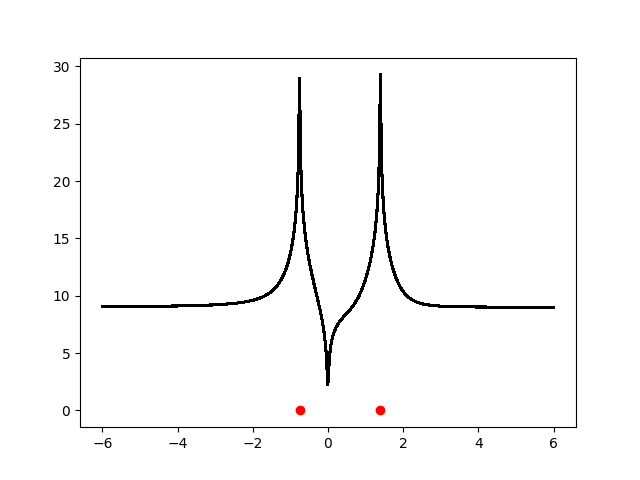
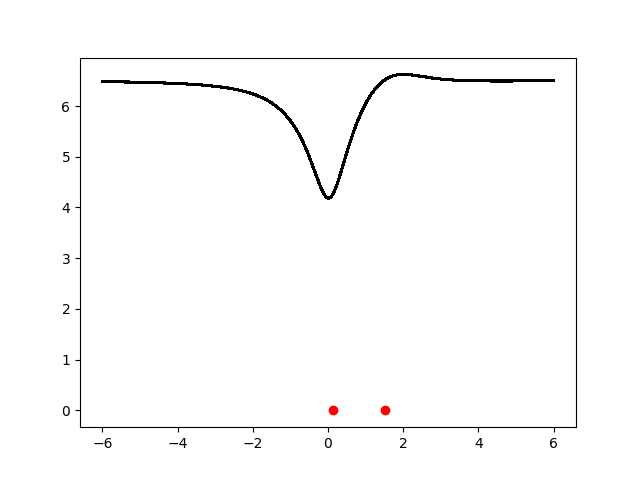
Minimization update

diff --git a/lensing_minimizer.py b/lensing_minimizer.py
@@ -121,17 +121,17 @@ def chi2plot(x,y,e1data,e2data,f1data,f2data,xmax=2,nx=100):
     myval = np.exp(-chi2_all.T)
     plt.imshow(myval,interpolation='none',origin='lower',extent=[-xmax,xmax,-xmax,xmax])
     plt.plot(x,y,'x','o',color='red')
-    plt.savefig('chi2_all.png')
+    plt.savefig('Images/chi2_all.png')
     plt.close()
 
     plt.imshow(np.log(chi2_flex.T),interpolation='none',origin='lower',extent=[-xmax,xmax,-xmax,xmax])
     plt.plot(x,y,'x','o',color='red')
-    plt.savefig('chi2_flex.png')
+    plt.savefig('Images/chi2_flex.png')
     plt.close()
 
     plt.imshow(np.log(chi2_shear.T),interpolation='none',origin='lower',extent=[-xmax,xmax,-xmax,xmax])
     plt.plot(x,y,'x','o',color='red')
-    plt.savefig('chi2_shear.png')
+    plt.savefig('Images/chi2_shear.png')
     plt.close()
 
 
@@ -177,10 +177,11 @@ xlarr, ylarr, tearr = createLenses(nlens=nlens,randompos=False,xmax=xmax)
 ns = 2
 sigf = 0.01
 sigs = 0.1
-x,y,e1data,e2data,f1data,f2data = createSources(xlarr,ylarr,tearr,ns,randompos=False,sigf=sigf,sigs=sigs,xmax=xmax)
+x,y,e1data,e2data,f1data,f2data = createSources(xlarr,ylarr,tearr,ns,randompos=True,sigf=sigf,sigs=sigs,xmax=xmax)
 
 #Make a plot in a 2x2 range showing chi^2
 
+chi2plot(x,y,e1data,e2data,f1data,f2data,xmax=xmax,nx=100)
 chi2plot1d(x,y,e1data,e2data,f1data,f2data,xmax=6,nx=1000)
 
 #Now minimize chi^2
